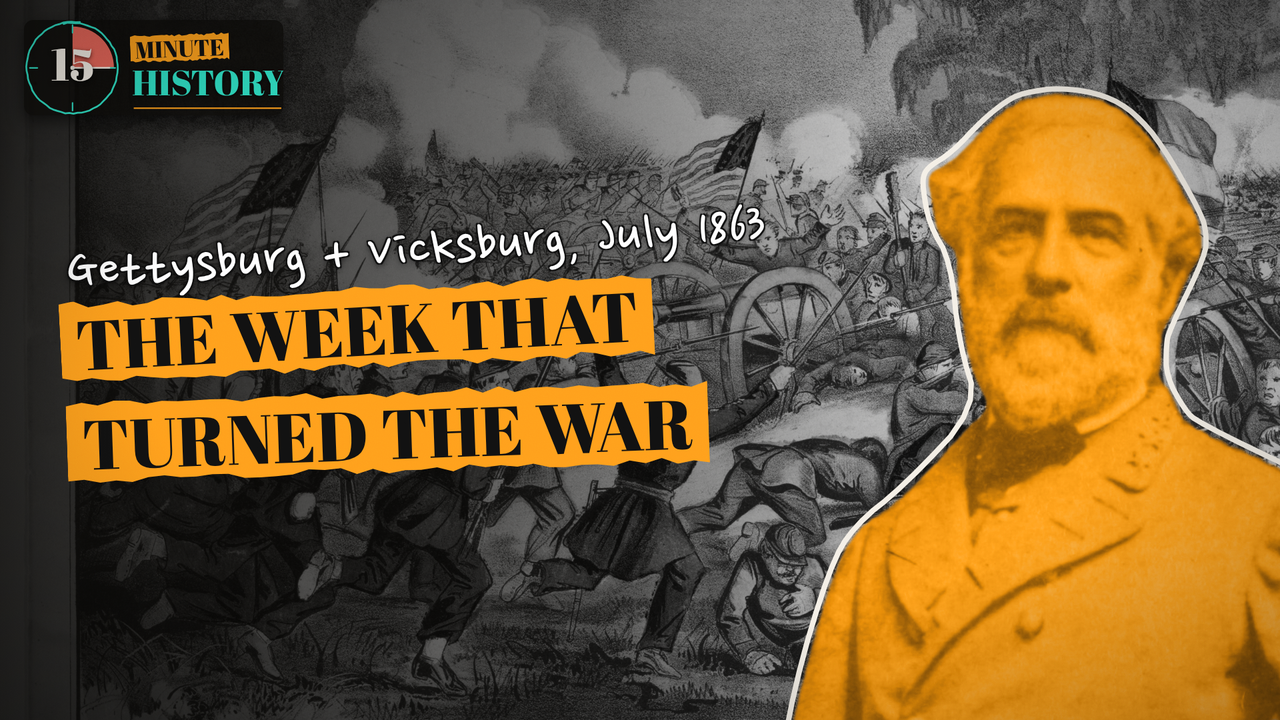
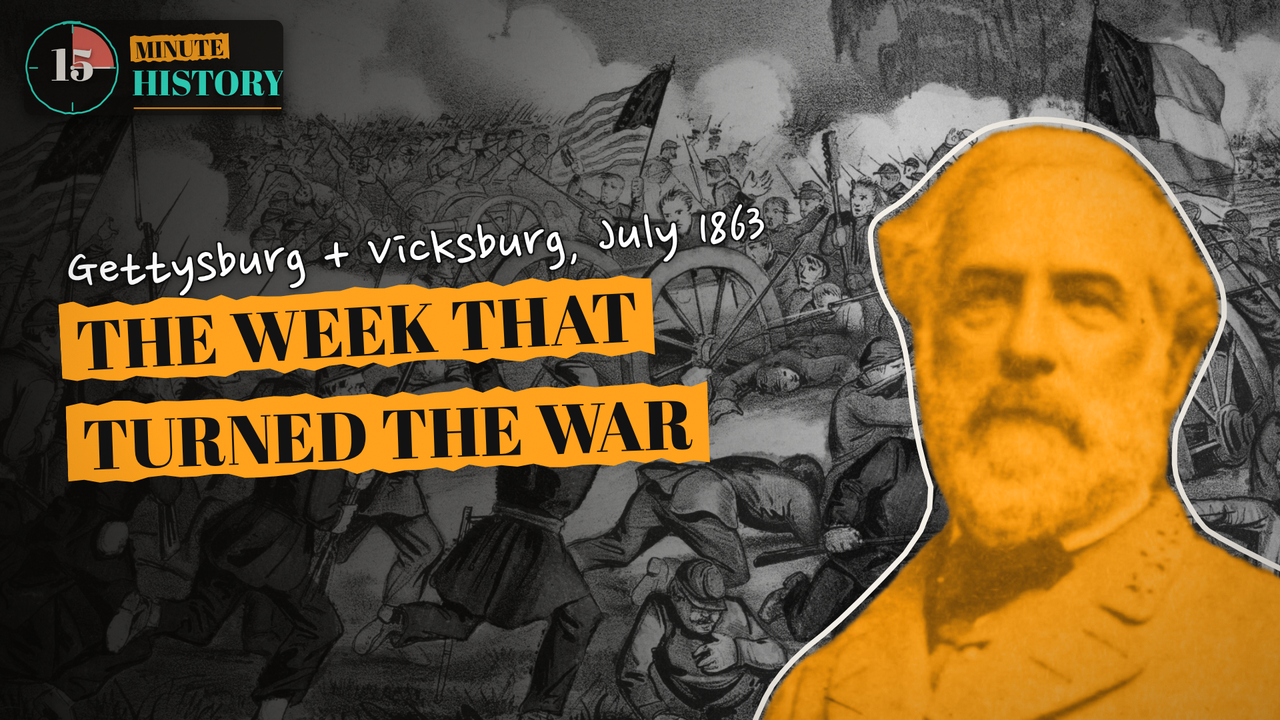
Except: Lee thumbnail zoomed in, background cropped past the print's border
Claude-Session: https://claude.ai/code/session_01QBL5yVi3JCdw99L39cDBLG

diff --git a/projects/Except/src/Thumbnail.tsx b/projects/Except/src/Thumbnail.tsx
@@ -152,8 +152,8 @@ export const ThumbD: React.FC = () => (
 
 /** E · Lee (orange) over the Currier print of Gettysburg, July 3. */
 export const ThumbE: React.FC = () => (
-  <Headshot bg="img/ch02/gettysburg_battle_july3_currier_1863.jpg" bgSize={[3000, 2335]} bfx={1300} bfy={1150} bz={1.15}
-    src="img/ch01/lee_portrait_vannerson_1864.jpg" size={[1899, 2993]} mask={MASKS.lee} face={[990, 650]} at={[1580, 390]} scale={1.4}
+  <Headshot bg="img/ch02/gettysburg_battle_july3_currier_1863.jpg" bgSize={[3000, 2335]} bfx={1500} bfy={1150} bz={1.4}
+    src="img/ch01/lee_portrait_vannerson_1864.jpg" size={[1899, 2993]} mask={MASKS.lee} face={[990, 650]} at={[1550, 500]} scale={1.75}
     color={GOLD} textSide="left">
     <Note text="Gettysburg + Vicksburg, July 1863" x={100} y={320} size={60} rot={-4} color="#ffffff" />
     <Highlight text="THE WEEK THAT" x={90} y={430} size={104} at={0} seed={309} rot={-3} />
